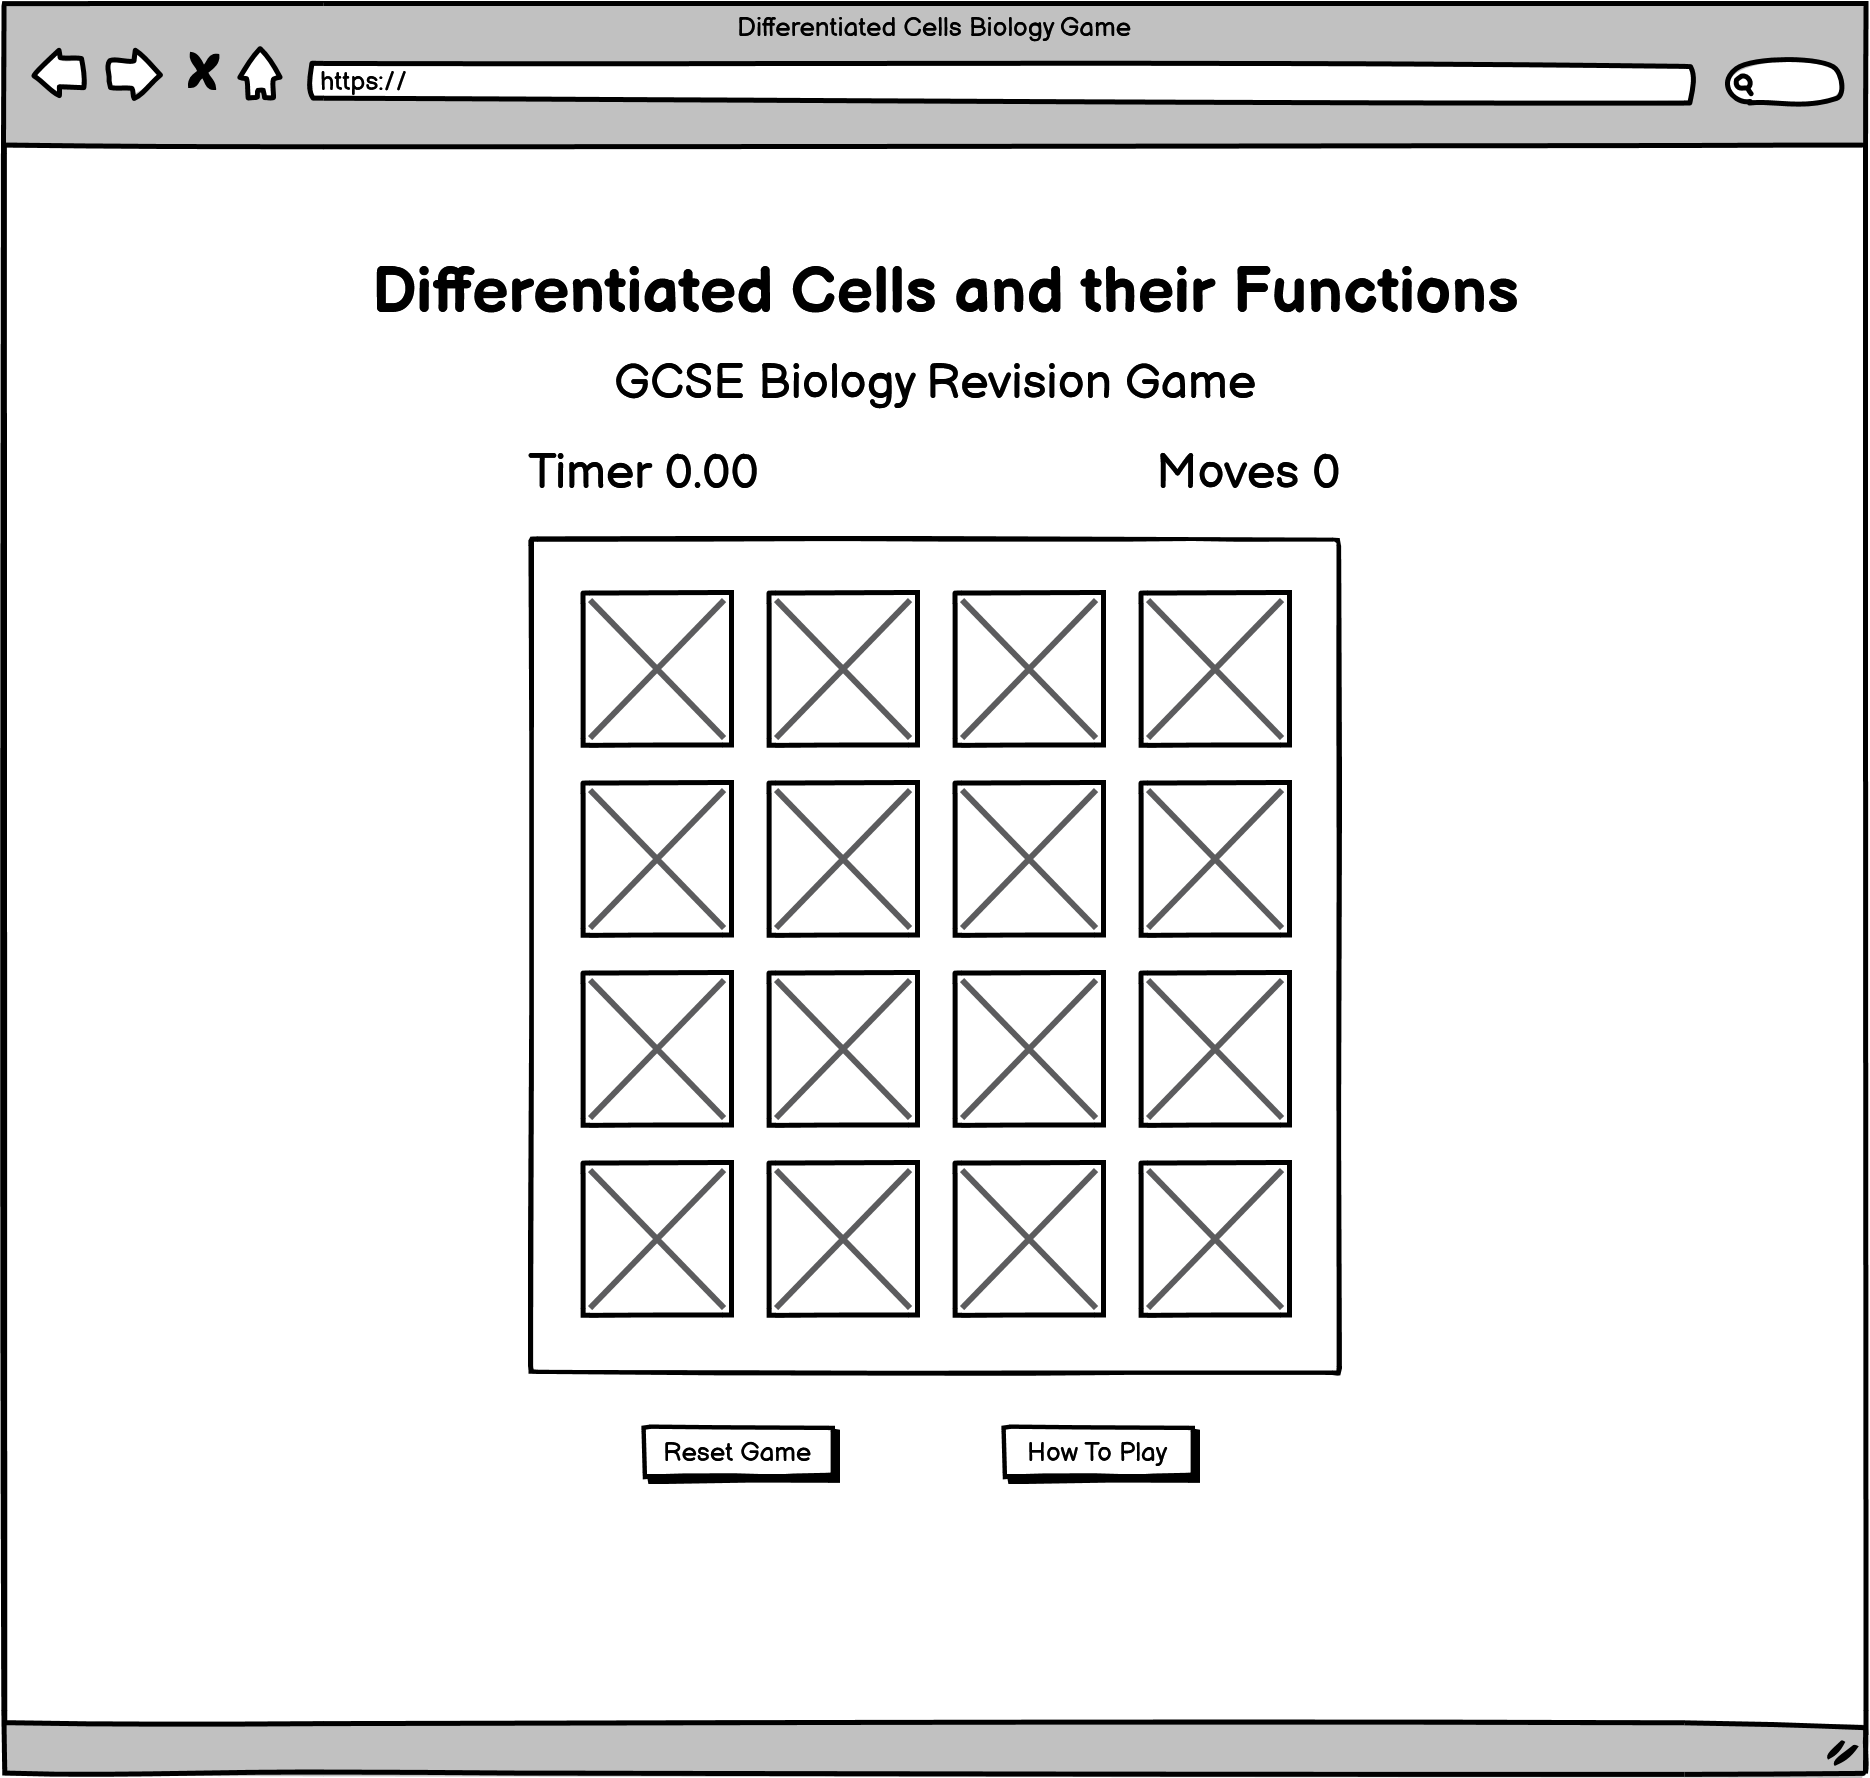
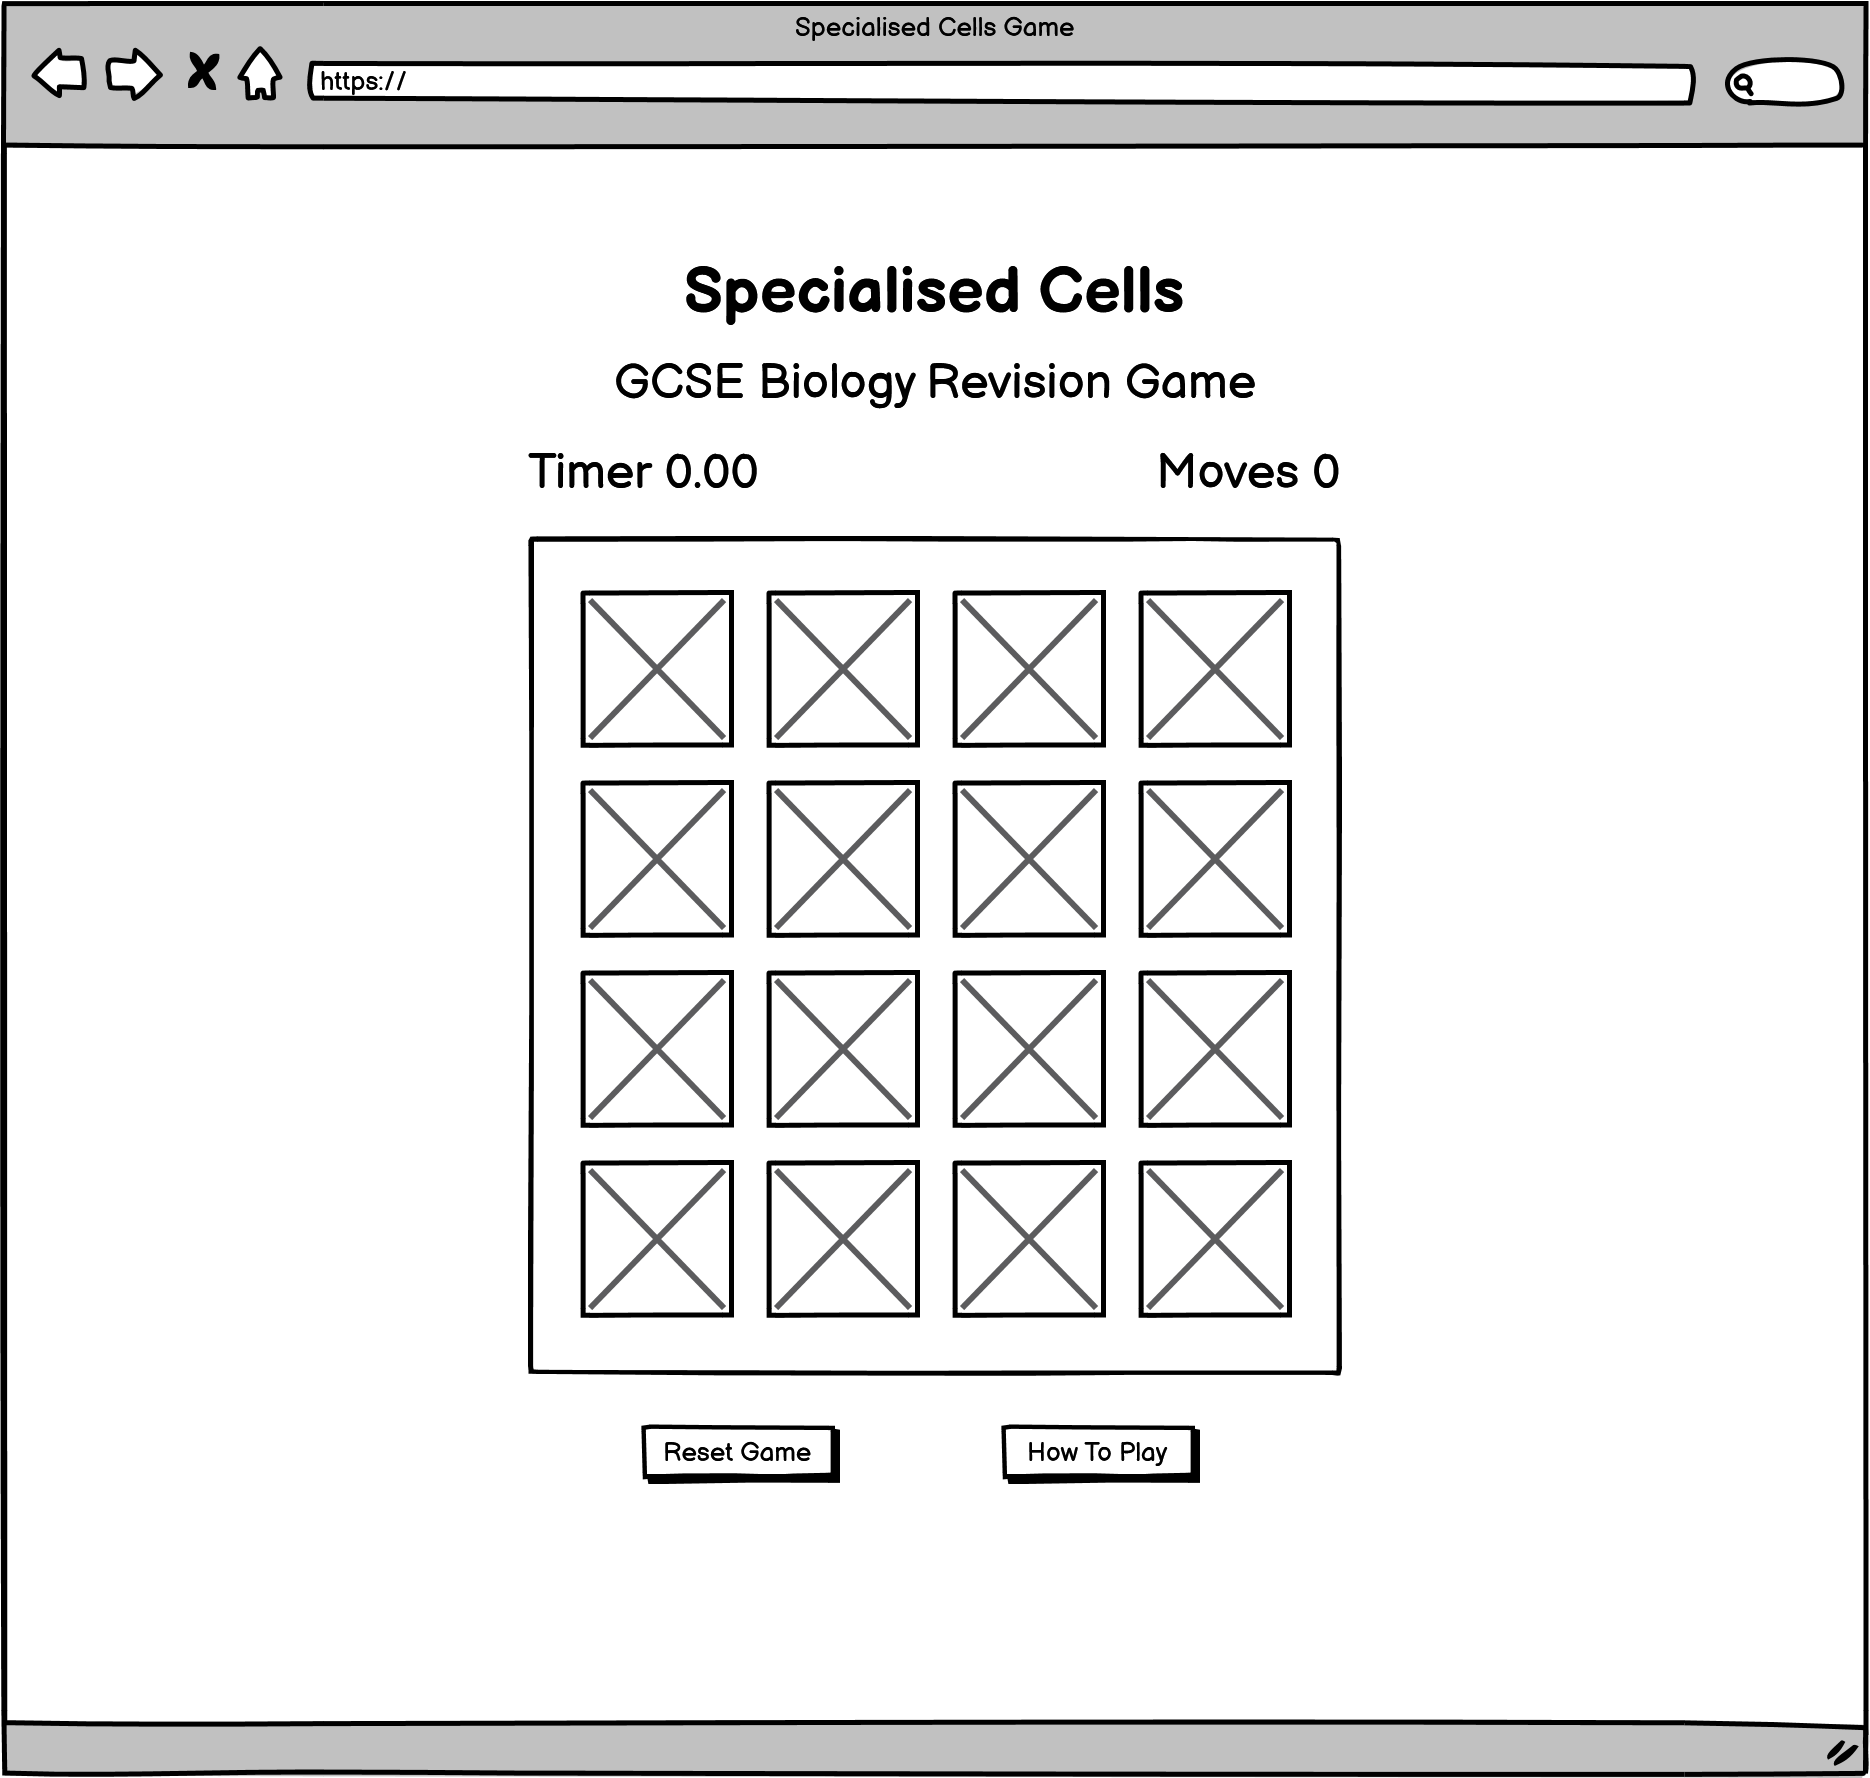
Replace wireframe images to updated versions in documentation folder

Changed region(s): [[0.1861, 0.1547, 0.8064, 0.1856], [0.4032, 0.0, 0.5893, 0.0309]]

diff --git a/README.md b/README.md
@@ -1,12 +1,12 @@
 ![CI logo](https://codeinstitute.s3.amazonaws.com/fullstack/ci_logo_small.png)
 
 
-# Differentiated Cells and Functions 🔬
+# Specialised Cells 🔬
 # - a GCSE Biology Revision Game
 
 ------
 
-This *GCSE Biology Revision Game* is a card-matching game that helps students to memorise **differentiated cell types and their functions**. A differentiated cell is any cell that has become specialised to perform a specific job - e.g. a *red blood cell* has developed certain features to perform *its function of carrying oxygen around the body*. Once a cell has become specialised, its job is fixed. The differentiated cell types chosen are **required learning in the Biology curriculum at GCSE level**.
+This *GCSE Biology Revision Game* is a card-matching game that helps students to memorise **specialised cell types and their functions**. A specialised cell is any cell that has developed features to perform a specific job - e.g. a *red blood cell* has developed certain features to perform *its function of carrying oxygen around the body*. Once a cell has become specialised, its job is fixed. The specialised cell types chosen are from **the Biology curriculum at GCSE level**.
 
  The objective of the game is to **find the matching pairs of cards** - a labeled image of the cell type with a description of its function. There is the **added challenge of completing the game within a set timeframe**, and the user has the option of **increasing the level of difficulty** by adding more cell types to be tested on. This game should hopefully be accessible enough and fun for anyone to play as a **quick-thinking memory style game**, but also can be used as a **revision tool** to help remember different cell types and their functions. 
 
@@ -16,7 +16,7 @@ This *GCSE Biology Revision Game* is a card-matching game that helps students to
 
 The **Am I Responsive?** link can be found here - [Am I Responsive?](#)
 
-A **deployed link** to the live website can be found here [Differentiated Cells and Functions Game](#)
+A **deployed link** to the live website can be found here [Specialised Cells Game](#)
 
 ---
 
@@ -78,21 +78,21 @@ Desktop Devices
 
 Mobile and Table Devices
 
-![HowToPlay Modal Wireframe for Mobile and Tablet Devices](/documentation/readme/wireframe-mob-howtoplay-modal.png "HowToPlay Modal Wireframe for Mobile and Tablet Devices")
+![HowToPlay Modal Wireframe for Mobile and Tablet Devices](/documentation/readme/wireframe-mob-howtoplay.png "HowToPlay Modal Wireframe for Mobile and Tablet Devices")
 
 Desktop Devices
 
-![HowToPlay Modal Wireframe for Desktop Devices](/documentation/readme/wireframe-desktop-howtoplay-modal.png "HowToPlay Modal Wireframe for Desktop Devices")
+![HowToPlay Modal Wireframe for Desktop Devices](/documentation/readme/wireframe-desktop-howtoplay.png "HowToPlay Modal Wireframe for Desktop Devices")
 
 **3. WinMessage Modal Wireframes**
 
 Mobile and Tablet Devices
 
-![WinMessage Modal Wireframe for Mobile and Tablet Devices](/documentation/readme/wireframe-mob-winmessage-modal.png "WinMessage Modal Wireframe for Mobile and Tablet Devices")
+![WinMessage Modal Wireframe for Mobile and Tablet Devices](/documentation/readme/wireframe-mob-winmessage.png "WinMessage Modal Wireframe for Mobile and Tablet Devices")
 
 Desktop Devices
 
-![WinMessage Modal Wireframe for Desktop Devices](/documentation/readme/wireframe-desktop-winmessage-modal.png "WinMessage Modal Wireframe for Desktop Devices")
+![WinMessage Modal Wireframe for Desktop Devices](/documentation/readme/wireframe-desktop-winmessage.png "WinMessage Modal Wireframe for Desktop Devices")
 
 
 
